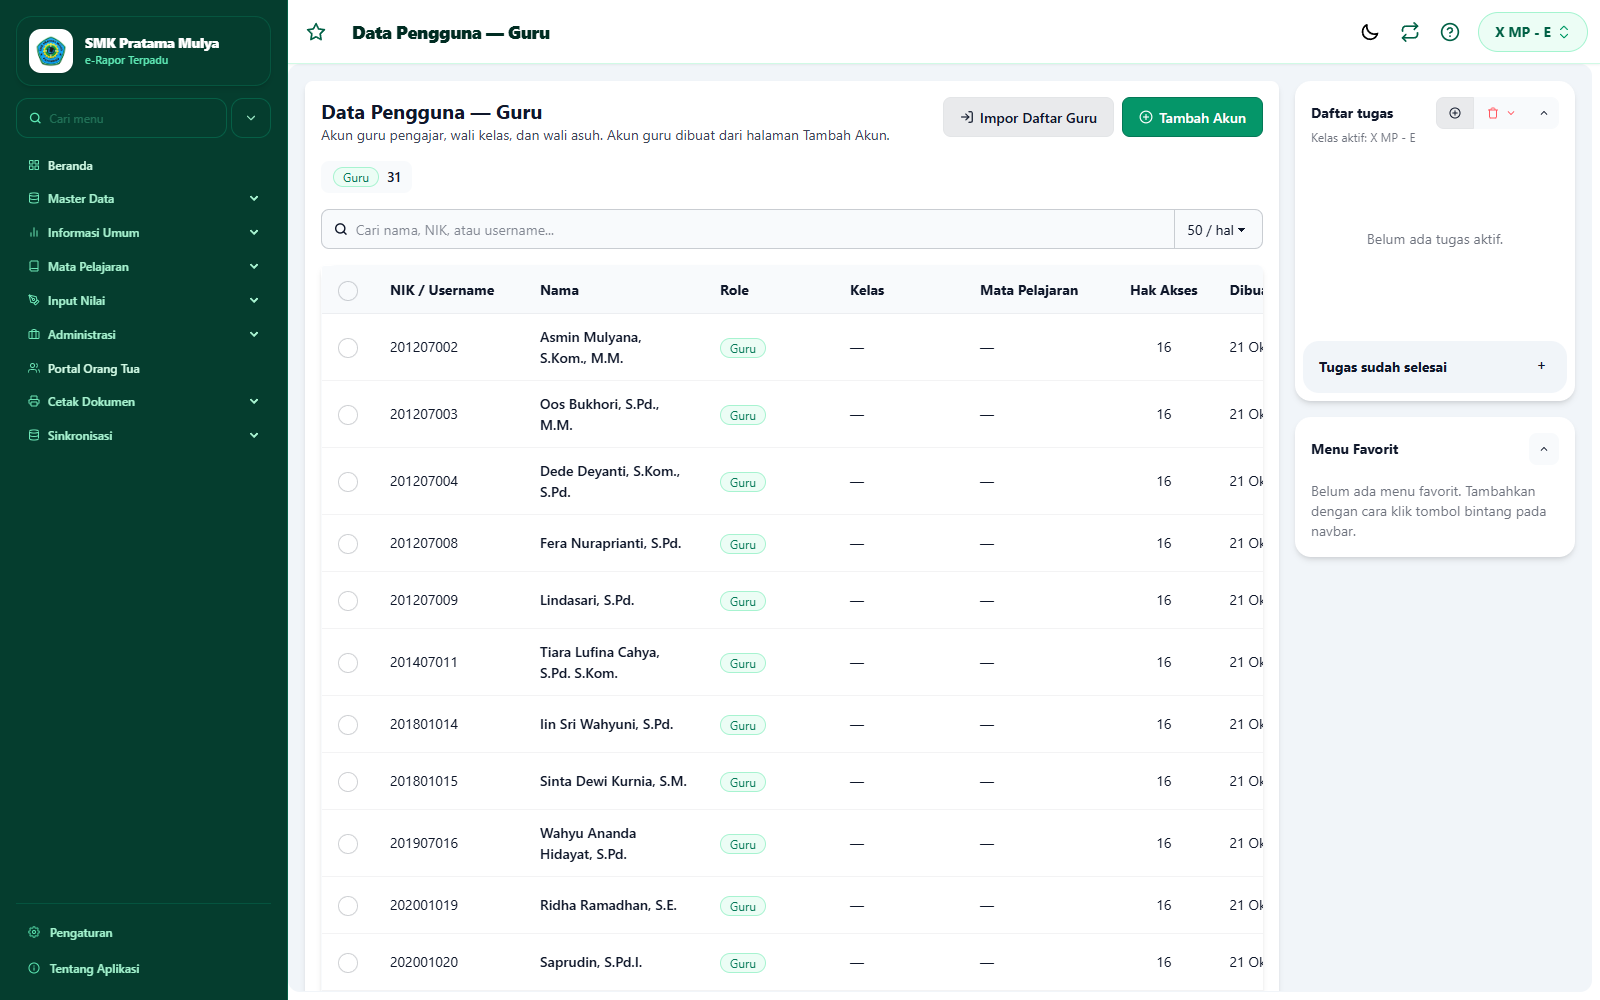
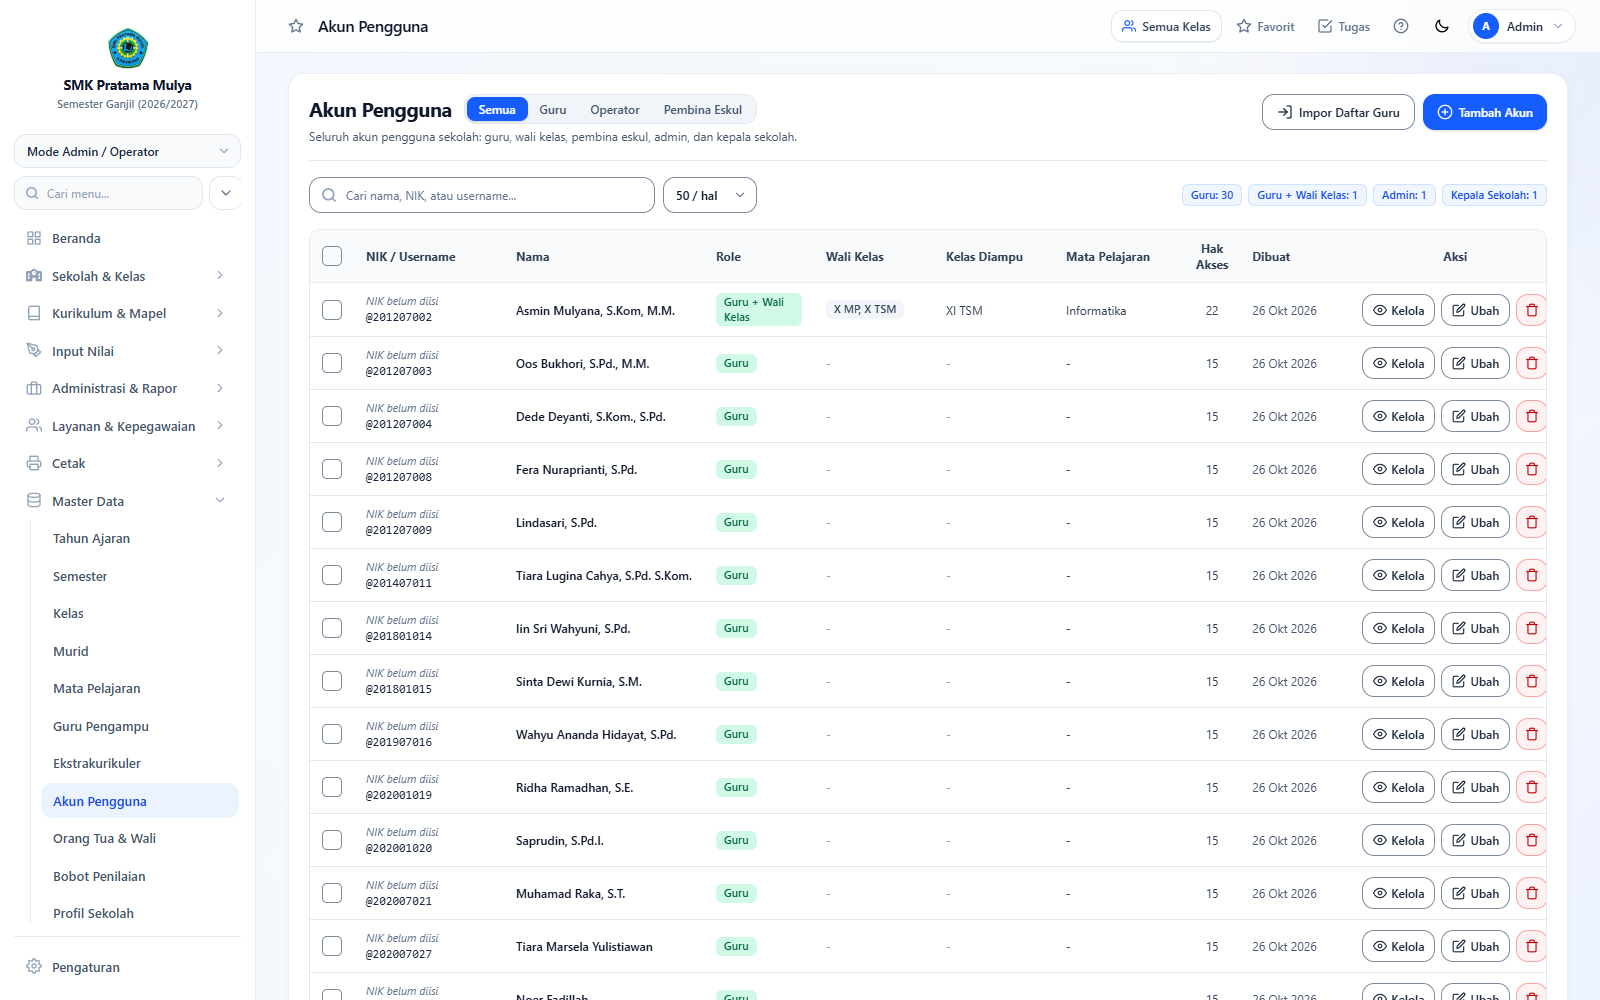
docs: perbarui README dan tangkapan layar antarmuka terbaru

diff --git a/README.md b/README.md
@@ -1,40 +1,29 @@
 # e-Rapor SMK Pratama Mulya
 
-![screenshot](static/image.png)
+![Tampilan Dashboard e-Rapor SMK Pratama Mulya](static/image.png)
 
 <a href='https://nodejs.org/en' target="_blank"><img alt='node.js' src='https://img.shields.io/badge/Node.JS-100000?style=for-the-badge&logo=node.js&logoColor=35C354&labelColor=000000&color=35C354'/></a> <a href='https://svelte.dev/' target="_blank"><img alt='Svelte' src='https://img.shields.io/badge/Svelte-100000?style=for-the-badge&logo=Svelte&logoColor=F45A20&labelColor=000000&color=F45A20'/></a> <a href='https://orm.drizzle.team/' target="_blank"><img alt='Drizzle' src='https://img.shields.io/badge/Drizzle_ORM-100000?style=for-the-badge&logo=Drizzle&logoColor=FAF61D&labelColor=000000&color=FAF61D'/></a> <a href='https://sqlite.org/' target="_blank"><img alt='Sqlite' src='https://img.shields.io/badge/SQLite3-100000?style=for-the-badge&logo=Sqlite&logoColor=5EA765&labelColor=000000&color=5EA765'/></a> <a href='https://tailwindcss.com/' target="_blank"><img alt='tailwindcss' src='https://img.shields.io/badge/Tailwind_CSS-100000?style=for-the-badge&logo=tailwindcss&logoColor=36DBFF&labelColor=000000&color=36DBFF'/></a> <a href='https://daisyui.com/' target="_blank"><img alt='DaisyUI' src='https://img.shields.io/badge/Daisy_UI-100000?style=for-the-badge&logo=DaisyUI&logoColor=FFEC25&labelColor=000000&color=FFEC25'/></a>
 
-> e-Rapor SMK Pratama Mulya awalnya dibuat sebagai alternatif E-Rapor Kurikulum Merdeka.
+e-Rapor SMK Pratama Mulya adalah aplikasi administrasi guru dan penilaian Kurikulum Merdeka untuk SMK Pratama Mulya Karawang. Repositori ini merupakan varian web daring yang berjalan dengan database terpusat (Cloudflare D1 atau LibSQL/SQLite) dan mendukung deployment Node.js maupun Vercel di https://erapor-pmk.titipit.id.
 
-Seiring perkembangannya, e-Rapor SMK Pratama Mulya kini menjadi aplikasi terpadu yang membantu berbagai kebutuhan administrasi guru dan sekolah.
+> **Mengapa tetap memakai aplikasi ini bersama E-Rapor resmi?**
 
-> **Mengapa masih menggunakan e-Rapor SMK Pratama Mulya jika pemerintah sudah menyediakan E-Rapor resmi?**
+E-Rapor resmi berfokus pada pengisian nilai akhir semester dan penentuan ketercapaian Tujuan Pembelajaran (TP). Aplikasi ini mencatat proses harian yang mendahuluinya: penilaian formatif, sumatif lingkup materi, STS, SAS, presensi, jurnal mengajar, hingga rekap nilai otomatis sebelum nilainya dikirim atau diekspor ke E-Rapor Kemdikdas.
 
-Karena E-Rapor resmi berfokus pada input nilai akhir serta penentuan Tujuan Pembelajaran (TP) yang tercapai atau belum tercapai secara manual. e-Rapor SMK Pratama Mulya hadir sebagai pelengkap proses tersebut dengan menyediakan pencatatan penilaian harian, pengolahan nilai, hingga rekapitulasi secara otomatis sehingga pekerjaan guru menjadi lebih praktis.
+Pembahasan teknis dan catatan pengembangan lengkap tersedia di folder `docs/`.
 
-Dokumentasi lengkap aplikasi ini disusun dalam bahasa Indonesia. File README ini memberikan gambaran singkat untuk pengguna dan pengembang, sedangkan pembahasan teknis serta panduan kontribusi tersedia di folder `docs/`.
+## Daftar fitur
 
-## Daftar Fitur
-
-- AI Generator untuk membuat Lingkup Materi berserta Tujuan Pembelajarannya secara otomatis berdasarkan Capaian Pembelajaran dari BSKAP
-- Mengelola data sekolah, kelas, dan murid.
-- Input nilai intrakurikuler berdasarkan Tujuan Pembelajaran (TP), meliputi penilaian harian, STS, SAS, dan formatif.
-- Jadwal pembelajaran beserta bell sekolah yang berjalan secara otomatis.
-- Presensi murid dengan cara input langsung secara massal oleh guru mata pelajaran maupun wali kelas.
-- Jurnal harian guru.
-- Pembuatan rapor, piagam, dan berbagai dokumen pendukung yang siap dicetak.
-- Mendukung penggunaan campuran huruf latin dan arab pada Capaian Pembelajaran (CP) di rapor.
-- Ekspor nilai dan Tujuan Pembelajaran (TP) ke file Excel yang dapat diimpor ke E-Rapor Kemdikdas.
-- Presensi guru beserta laporannya
-- Buku tamu digital yang dapat diakses melalui halaman `ipAddress:3000/tamu`
-- Jadwal pelajaran yang dapat diakses melalui halaman `ipAddress:3000/jadwal-pelajaran`
-- Dinas luar dan SPPD otomatis
-- Tarik data dari Dapodik (sinkronisasi sekolah, guru, kelas, murid, dan jadwal pembelajaran secara otomatis dari aplikasi Dapodik Desktop)
-- Kirim nilai akhir dan mata evaluasi (matev) langsung ke Dapodik
-- Kustomisasi cetak: mengubah teks kop, gambar (logo & watermark), dan jarak/layout dokumen cetak, lengkap dengan live preview dokumen sebelum disimpan.
-- Master Data terpadu: tahun ajaran, semester, kelas, murid, mata pelajaran, ekstrakurikuler (sekolah bisa menganggotakan murid ke ekstrakurikuler), data pengguna, orang tua, dan profil sekolah.
-- Manajemen data pengguna untuk guru & operator, termasuk impor daftar guru dari Excel/CSV (akun guru dibuat dengan kata sandi awal dan wajib menggantinya saat login pertama).
-- Mode "Semua Kelas" untuk admin dan kepala sekolah agar bisa melihat data seluruh kelas tanpa memilih kelas aktif.
+- Pembuatan Lingkup Materi dan Tujuan Pembelajaran (TP) memakai generator AI berdasarkan Capaian Pembelajaran BSKAP.
+- Input nilai intrakurikuler (asesmen formatif, sumatif materi, STS, SAS), kokurikuler, P5, PKL/Prakerin, serta ekstrakurikuler lengkap dengan legger dan rekap keseluruhan.
+- Pemilih modul kerja di sidebar (`Mode Admin / Operator`, `Modul Wali Kelas`, `Modul Guru`) serta ruang kerja otomatis `Pembina Eskul` untuk pembina eksternal tanpa masuk ke daftar pegawai atau presensi guru.
+- Pengelolaan Akun Pengguna terpadu (`/master-data/pengguna`) dengan filter tab `Semua`, `Guru`, `Operator`, dan `Pembina Eskul`, termasuk impor daftar guru dari Excel atau CSV.
+- Penjadwalan pelajaran dengan bel sekolah otomatis (`/jadwal-pelajaran`) dan layar monitoring publik `/tamu` untuk buku tamu digital.
+- Presensi murid harian dan per mata pelajaran untuk guru mapel maupun wali kelas, jurnal harian guru, poin siswa, dinas luar, serta cetak SPPD otomatis.
+- Cetak cover, biodata, rapor, dan piagam dalam format PDF dengan halaman kustomisasi kop, logo, watermark, dan tata letak disertai live preview (`/cetak/kustomisasi`).
+- Penulisan Capaian Pembelajaran (CP) dan deskripsi rapor dengan campuran huruf Latin dan Arab.
+- Portal Orang Tua (`/portal-orang-tua`), pengelolaan tanda tangan digital, serta tarik data dan kirim nilai akhir/matev ke Dapodik.
+- Mode `Semua Kelas` bagi admin dan kepala sekolah untuk memantau seluruh rombel sekaligus dalam mode tampilan terang atau gelap.
 
 ## Screenshot
 
@@ -42,172 +31,102 @@ Dokumentasi lengkap aplikasi ini disusun dalam bahasa Indonesia. File README ini
 
 ![Dashboard e-Rapor SMK Pratama Mulya](static/screenshot-dashboard.png)
 
-### Kustomisasi Cetak (live preview)
+### Kustomisasi cetak (live preview)
 
 ![Halaman Kustomisasi Cetak](static/screenshot-kustomisasi-cetak.png)
 
-### Data Pengguna (Guru & Operator)
+### Akun pengguna terpadu
 
-![Halaman Data Pengguna](static/screenshot-data-pengguna.png)
+![Halaman Akun Pengguna](static/screenshot-data-pengguna.png)
 
-### Master Data
+### Master data
 
 ![Halaman Master Data](static/screenshot-master-data.png)
 
-### Presensi Murid
+### Presensi murid
 
 ![Halaman Presensi Murid](static/screenshot-presensi-murid.png)
 
-## Siapa yang Cocok Menggunakan e-Rapor SMK Pratama Mulya?
+## Kecocokan penggunaan
 
-- Sekolah yang tidak dapat menggunakan E-Rapor Kemdikdas karena alasan tertentu.
-- Sekolah yang sudah menggunakan E-Rapor tetapi ingin seluruh proses penilaian harian tercatat secara elektronik sehingga rekapitulasi nilai tidak lagi dilakukan secara manual di Excel. Nilai akhir cukup diimpor ke E-Rapor.
-- Sekolah swasta, khususnya sekolah Islam, yang membutuhkan dukungan penulisan Capaian Pembelajaran (CP) dengan kombinasi huruf latin dan arab.
+Aplikasi ini cocok untuk sekolah yang ingin mencatat penilaian harian, presensi, jurnal mengajar, dan ekstrakurikuler secara elektronik agar rekap nilai rapor akhir tidak lagi dihitung manual di Excel. Sekolah swasta atau sekolah Islam yang menuliskan Capaian Pembelajaran berbahasa Arab dan Latin dalam satu dokumen rapor juga didukung penuh.
 
 ## Quickstart
 
-### Versi Pengguna (Windows Installer)
+### Deployment web (Vercel / Cloudflare D1)
 
-1. Kunjungi halaman rilis:
-   https://github.com/athuridha/eraport/releases
-2. Unduh file `ERaporPMKSetup.exe`.
-3. Jalankan installer dan ikuti proses instalasi.
-4. Setelah selesai, buka aplikasi melalui shortcut yang tersedia.
+Konfigurasi adapter pada `svelte.config.js` memilih `@sveltejs/adapter-vercel` secara otomatis saat `VERCEL=1` atau `ADAPTER=vercel`:
 
-### Versi Linux dan Sistem Operasi Lain (Menggunakan Node.js)
+```bash
+vercel deploy --prod
+```
 
-#### Persyaratan
+Atur variabel lingkungan koneksi database terpusat (`DB_URL` dan `DB_AUTH_TOKEN`, atau kredensial D1 sesuai pengaturan proyek) pada panel Vercel.
 
-- Node.js 20 LTS (direkomendasikan)
-- pnpm
-- Google Chrome atau Chromium (digunakan untuk proses rendering PDF melalui PagedJS + Puppeteer)
+### Jalankan lokal dengan Node.js
 
-#### Instalasi
+Persyaratan yang perlu disiapkan adalah Node.js 20 LTS atau lebih baru, `pnpm`, serta Google Chrome atau Chromium untuk rendering PDF lewat PagedJS dan Puppeteer.
 
-1. Clone repository menggunakan perintah di bawah atau download [file zip](https://github.com/athuridha/eraport/archive/refs/heads/main.zip) dari proyek ini.
+1. Clone repositori dan masuk ke direktori proyek:
 
    ```bash
-   git clone https://github.com/athuridha/eraport && cd eraport
+   git clone https://github.com/athuridha/erapor-pmk-online && cd erapor-pmk-online
    ```
 
-2. Install seluruh dependency.
+2. Pasang dependency proyek:
 
    ```bash
    pnpm install
    ```
 
-3. Build aplikasi dan jalankan.
+3. Jalankan server pengembangan di port `5173` (atau buat build produksi dengan `pnpm build && node build`):
 
    ```bash
-   pnpm build && node build
+   pnpm dev -- --port 5173
    ```
 
-Untuk panduan instalasi manual serta proses pengembangan yang lebih lengkap, silakan baca:
+Untuk pengguna aplikasi desktop Windows tanpa server terpisah, installer `ERaporPMKSetup.exe` tersedia di halaman rilis https://github.com/athuridha/eraport/releases.
 
-`docs/DEVELOPMENT.md`
+### Skrip penting
 
-## Menjalankan Versi Pengembangan (Untuk Pengembang)
+Daftar lengkap tersedia di `package.json`:
 
-### Persyaratan
+- `pnpm dev`: menjalankan server pengembangan (`node scripts/dev.js`) sekaligus generator ikon.
+- `pnpm build`: membuat build produksi (`adapter-node` bawaan, atau `ADAPTER=vercel` untuk Vercel).
+- `pnpm db:push`: menerapkan perubahan skema database lewat skrip migrasi khusus.
+- `pnpm db:studio`: membuka Drizzle Studio untuk memeriksa tabel database.
+- `pnpm lint` dan `pnpm check`: memeriksa pemformatan Prettier, aturan ESLint, dan tipe Svelte.
+- `pnpm screenshot:readme`: memperbarui tangkapan layar aplikasi pada folder `static/` dari server lokal yang sedang berjalan.
 
-- Node.js 20 LTS (direkomendasikan)
-- pnpm
-- Google Chrome atau Chromium (digunakan untuk proses rendering PDF melalui PagedJS + Puppeteer)
+Lokasi database SQLite bawaan saat berjalan lokal:
 
-### Langkah Singkat
-
-```bash
-pnpm install
-pnpm dev -- --port 5173
-```
-
-Selanjutnya buka:
-
-```
-http://localhost:5173
-```
-
-Jika port `5173` sedang digunakan, jalankan dengan port lain, misalnya:
-
-```
---port 5174
-```
-
-### Beberapa Skrip Penting
-
-(Lihat juga `package.json`)
-
-- `pnpm dev` — Menjalankan server pengembangan (`node scripts/dev.js`) sekaligus generator ikon.
-- `pnpm build` — Membuat build produksi.
-- `pnpm db:push` — Menjalankan migrasi database menggunakan Drizzle.
-- `pnpm db:studio` — Membuka Drizzle Studio untuk melihat dan mengelola database.
-- `pnpm lint` dan `pnpm check` — Melakukan pengecekan format, lint, dan tipe Svelte.
-
-Lokasi database lokal:
-
-```
+```text
 data/database.sqlite3
 ```
 
-### Skills untuk AI Coding Agent (opencode)
+### Skills untuk AI coding agent
 
-Skills (instruksi untuk agent coding) disimpan di folder `.agents/skills/` dan dibaca otomatis oleh opencode. Terdapat dua kelompok:
+Instruksi khusus untuk AI agent berada di folder `.agents/skills/`:
 
-- **Strix (security testing):** 9 skill untuk menjalankan AI pentest, memperbaiki temuan keamanan, dan menyiapkan CI scanning. Cara install/pembaruan:
+- Strix security testing (9 skill audit keamanan, panduan di `docs/SKILLS.md`).
+- Penulisan bahasa Indonesia (`bahasa-inti` dan `bahasa-website`).
 
-  ```sh
-  npx skills add usestrix/strix
-  ```
+## Struktur proyek
 
-  Panduan instalasi Strix CLI, konfigurasi LLM, dan perintah scan tersedia di `docs/SKILLS.md`.
+- `src/`: kode sumber aplikasi SvelteKit (halaman, API route, komponen UI, dan logika server).
+- `static/`: aset statis, logo, suara bel, dan screenshot dokumentasi.
+- `scripts/`: skrip utilitas untuk migrasi, seed data, pembaruan screenshot, dan build.
+- `data/`: direktori database SQLite lokal serta berkas unggahan saat mode lokal.
+- `drizzle/`: berkas migrasi SQL Drizzle ORM.
 
-- **Bahasa Indonesia:** skill `bahasa-inti` (aturan inti penulisan bahasa Indonesia) dan `bahasa-website` (penulisan UX/microcopy) — sudah termasuk di repository.
+Detail pola pengembangan memakai Svelte 5 Runes, Tailwind CSS v4, DaisyUI, dan Drizzle ORM dijelaskan di `docs/DEVELOPMENT.md`.
 
-Restart ulang session opencode setelah menambah atau memperbarui skills agar dikenali.
+## Lisensi
 
-## Struktur Proyek (Singkat)
+Perangkat lunak ini dirilis dengan lisensi khusus pada file `LICENSE`. Anda boleh menggunakan, menyalin, dan memodifikasi kode untuk keperluan nonkomersial dengan mempertahankan atribusi pembuat asli, namun dilarang menjual atau memonetisasi aplikasi maupun hasil turunannya.
 
-- `src/` — Kode sumber aplikasi SvelteKit (komponen, route, dan server).
-- `static/` — Aset statis yang disajikan apa adanya.
-- `scripts/` — Berisi skrip utilitas seperti migrasi, seed, dan generator ikon.
-- `data/` — Menyimpan database lokal serta file upload.
-- `drizzle/` — File migrasi SQL yang digunakan oleh Drizzle ORM.
+Ikon pada folder `src/lib/icons` bersumber dari Feather Icons berlisensi MIT (catatan kredit tersedia di `docs/ICON-CREDITS.md`).
 
-Penjelasan lebih lengkap mengenai pola implementasi (Svelte 5 Runes, DaisyUI, Tailwind CSS v4, dan Drizzle ORM) tersedia pada:
+## Kontribusi & bantuan
 
-`docs/DEVELOPMENT.md`
-
-## Lisensi & Pengecualian
-
-Perangkat lunak ini menggunakan lisensi khusus (custom license).
-
-Anda bebas menggunakan, memodifikasi, dan membagikan aplikasi ini untuk keperluan nonkomersial dengan tetap mencantumkan atribusi kepada pembuatnya.
-
-Tidak diperbolehkan menjual atau memonetisasi perangkat lunak ini maupun hasil modifikasinya dalam bentuk apa pun.
-
-Silakan lihat file `LICENSE` di root proyek untuk mengetahui ketentuan lengkap beserta daftar aset yang termasuk di dalamnya.
-
-Ikon yang berada pada folder `src/lib/icons` berasal dari Feather dan dirilis di bawah lisensi MIT.
-
-Informasi lisensi dan kredit selengkapnya tersedia di:
-
-`docs/ICON-CREDITS.md`
-
-## Kontribusi
-
-Terima kasih atas minat Anda untuk berkontribusi pada e-Rapor SMK Pratama Mulya.
-
-Sebelum mengirim Pull Request, mohon perhatikan beberapa hal berikut:
-
-- Ikuti panduan penulisan kode yang berlaku.
-- Jalankan `pnpm lint` dan `pnpm check` untuk memastikan tidak ada masalah pada kode.
-- Gunakan bahasa Indonesia untuk seluruh teks yang ditampilkan kepada pengguna (user-facing copy dan dokumentasi pengguna).
-- Jika mengubah fitur penting, tambahkan pengujian sederhana atau sertakan langkah verifikasi secara manual.
-
-Panduan lengkap alur pengembangan tersedia pada:
-
-`docs/DEVELOPMENT.md`
-
-## Bantuan
-
-Apabila menemukan bug, mengalami kendala, atau memiliki pertanyaan, silakan buat Issue pada repository GitHub.
+Sebelum mengirim Pull Request, pastikan `pnpm lint` dan `pnpm check` selesai tanpa error serta seluruh teks antarmuka menggunakan bahasa Indonesia yang baku. Jika menemukan bug atau kendala penggunaan, silakan buat Issue di repositori GitHub.
